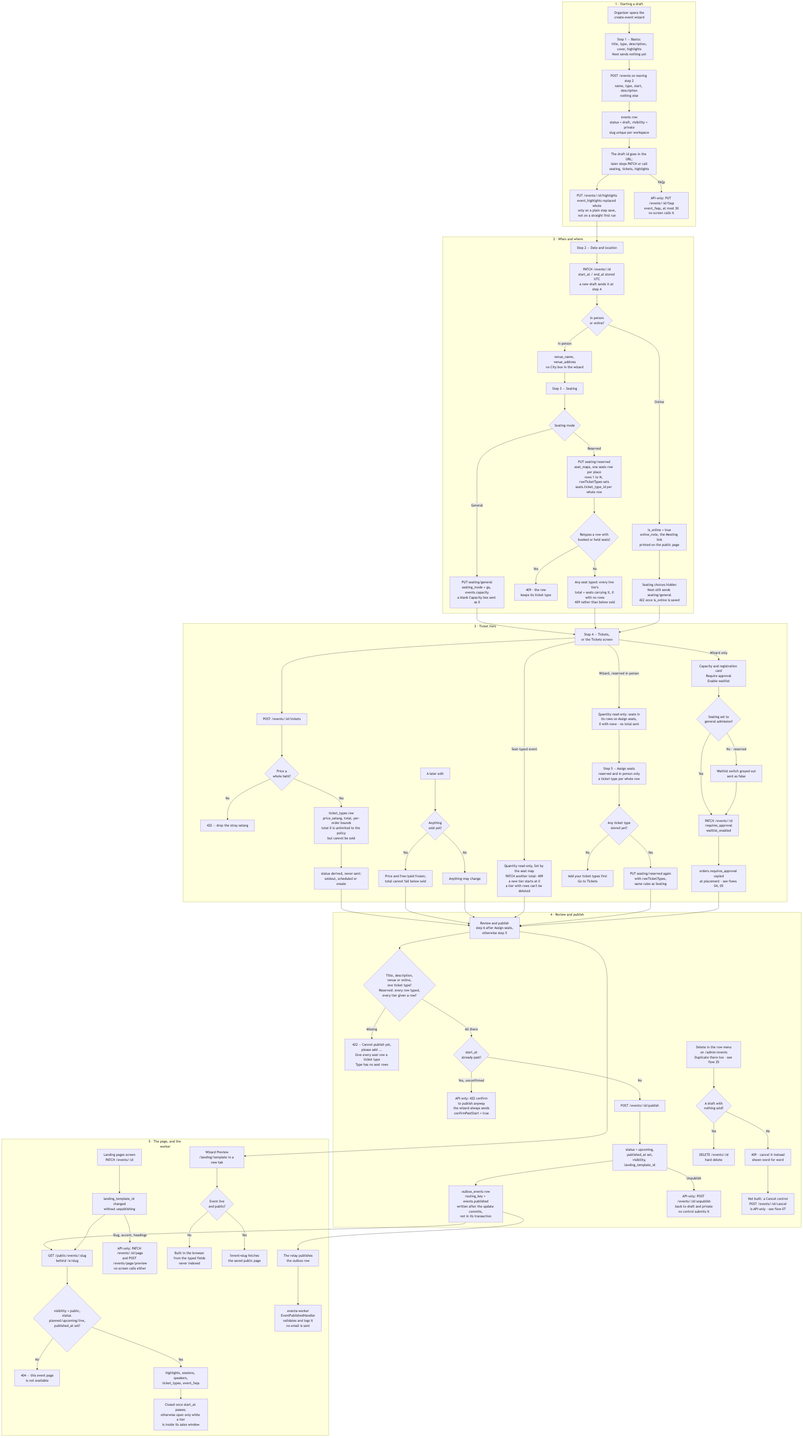
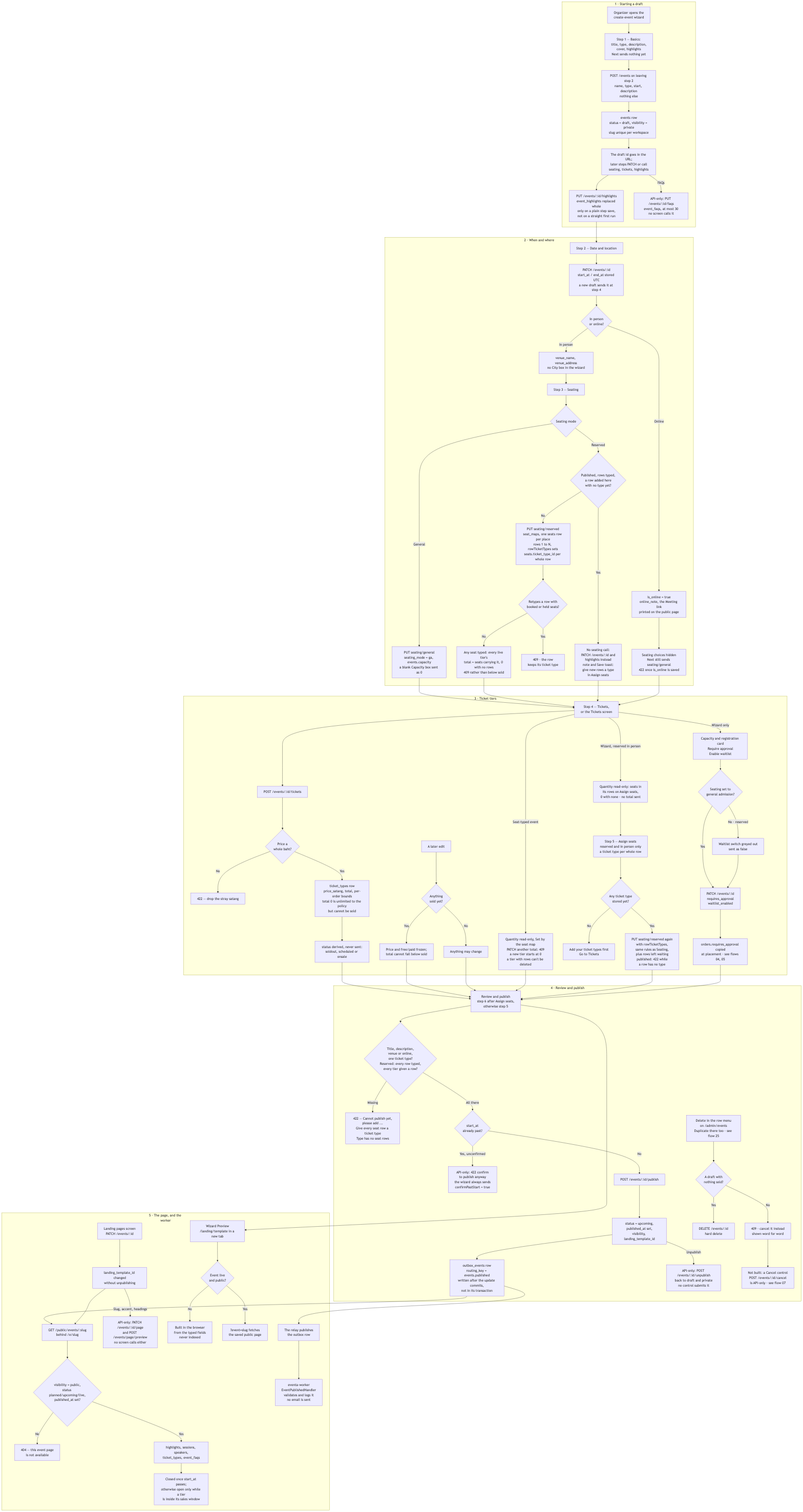
docs(flowcharts): draw Seating waiting for Assign seats on a published map (US-EVT-05)
Flowchart 13 said both wizard steps save the seat map. Once an event is
published with typed rows the API refuses a map with an untyped row (a
422, "Give row {n} a ticket type. Every row of a published event needs
one."), so while a row added on Seating has no type, Seating sends no
seating call: it saves the rest of the event as a plain step save (with
the highlights, which section 1 now counts), shows its note, and its
Save toasts the Assign seats message instead of "Changes saved.". The
map goes out with Assign seats' save. New decision OW and node OX after
Reserved; AS3 says it carries the waiting rows and the 422.

Image 13 re-rendered with Mermaid 11.4.1 (the old source reproduces the
committed PNG byte for byte, and the new one renders identically twice).
The flowcharts have no .tldr companions.

Changed region(s): [[0.0, 0.0, 1.0, 0.9915], [0.1875, 0.9295, 0.2812, 1.0]]

diff --git a/04-architecture/flowcharts/13-create-and-publish-an-event.md b/04-architecture/flowcharts/13-create-and-publish-an-event.md
@@ -6,8 +6,8 @@ How an organizer turns an idea into a public page an attendee can register on. I
 
 ![Create and publish an event](images/13-create-and-publish-an-event.png)
 
-1. **Starting a draft.** The wizard at `/admin/event-form` opens blank and makes no calls at all until something is saved — on the API this is not one submit but a create followed by a long run of patches. `POST /events` needs a start and the start is asked for on step 2, so Next on Basics sends nothing and step 2's Next stays disabled until a title and a start date are filled; leaving step 2 is the create. That first save posts to `/events` (permission `evCreate`) with only a name, a type from the `event_type` enum, a start instant and an optional description — nothing else the first two steps hold, so the venue, end, online flag and cover typed there are first written by a later `PATCH` (on a straight run, step 4's) — and inserts an `events` row with `status = 'draft'`, `bucket = 'active'`, `visibility = 'private'` and `published_at` still null. The slug is derived from the name (latin `a-z0-9` and hyphens, at most 80 characters), falls back to `event` when that leaves fewer than three characters (a Thai-only title, for instance), and is tried as `-2`, `-3`… until it is free, because `uq_events_org_slug` makes it unique per workspace rather than globally; `organizer_name` falls back to the workspace's own name and `created_by` records who did it. The description is rich text the organizer authors in Quill and an anonymous reader later loads, so it is sanitised on the way **in** and capped at 10,000 characters of markup. The new id goes straight into the URL — from then on a refresh or a closed tab cannot strand a draft nobody can find. The cover image is a separate two-step upload (`POST /events/cover/upload-url`, then `PUT` straight to storage, then `POST /events/cover`); it writes to no table, is staged per **organization** rather than per event because step 1 runs before a draft exists to key it to, and only the confirmed URL is saved, in `events.cover_image`. The Basics step's highlights are a `PUT /events/:id/highlights` that replaces `event_highlights` as a whole — at most 12 — so what the organizer sees is exactly what the page renders. That call goes out only with the wizard's plain step save — Next on Basics or Date & location once the draft exists, or the header's Save on those steps or on Review — never with the create, seating, tickets or publish calls; so on a straight first run through a new event the highlights typed on Basics are never sent, unless the organizer goes back and saves one of those steps. FAQs have the same shape on the API — `PUT /events/:id/faqs` (`evCreate`) replaces `event_faqs` whole, at most 30 — but that endpoint is **API-only: no screen calls it**. The wizard has no FAQ field and no other console screen authors FAQs, so `event_faqs` stays empty unless something calls the API directly, and every template simply leaves the FAQ section out when there are none.
-2. **When and where.** Step 2's fields reach `events` through `PATCH /events/:id` — on an existing draft when step 2 is left, on a new one only with step 4's save, because leaving step 2 was the create. `start_at` and `end_at` are `timestamptz` — stored UTC, typed and displayed in Asia/Bangkok, with `events.timezone` defaulting to `'Asia/Bangkok'`. An end before or equal to the start is refused. An in-person event fills `venue_name` and `venue_address` — the wizard has no City box and re-sends whatever `city` is already stored, blank for a new event; an online one sets `is_online = true` with an `online_note`, and the public page then never publishes a physical location even if one is stored. It does publish `online_note` itself: the wizard labels that box **Meeting link** with a hint that it is emailed after registration, yet `GET /public/events/:slug` returns it and every template prints it in place of "Join link sent after you register". Step 3 is the room. General admission is a headcount: `PUT /events/:eventId/seating/general` sets `seating_mode = 'ga'` and writes the number into `events.capacity`. Reserved seating is a grid: `PUT /events/:eventId/seating/reserved` writes one `seat_maps` row per event (`uq_seat_maps_event`) carrying `layout` as `{ rows, seatsPerRow }` and `total_seats`, plus one `seats` row per position with `status = 'available'` — the `seat_status` enum is `available`, `held`, `reserved`, `sold`, `blocked`. Rows are numbered, not lettered: `seats.row_label` is `"1"` to `"N"`, and the wizard's preview labels them the same way. The same request splits the map between the event's ticket types by **whole rows**: `rowTicketTypes` carries one entry per row (index 0 is row `"1"`), each a live tier of this event or `null`, and the save writes that tier into `seats.ticket_type_id` on every seat of the row. A tier from anywhere else is a 422 ("Row {n}'s ticket type isn't one of this event's ticket types."), and so is a list whose length is not the row count; leaving the list out keeps each surviving row's type and gives new rows none. It is one transaction, locking the seat map, then the event's live `ticket_types`, then the map's `seats`. A row that has any seat booked (a `seat_assignments` row with `released_at` null) or held (an `active`, unexpired `seat_holds` row) keeps its type: a save that would change it is a 409, "Row {n} has booked or held seats, so its ticket type can't change.", read through a port the registration side implements. Once any seat on the map carries a tier the event is **seat-typed**, and in the same transaction Ticketing — through a port that takes the transaction — sets every live tier's `total` to the number of seats carrying it, `0` for a tier with no rows, and re-derives its `status` as it does whenever `total` changes; it never writes a `total` below `sold`, refusing the whole save with a 409 instead ("{Type} has sold {sold} tickets, more than the {n} seats its rows now hold."). `GET …/seating`, and the save's own response, return `rows` (`rowLabel`, `ticketTypeId`, `seats`, sorted numerically) and `unassignedRows`. The wizard gives this a step of its own. On an in-person event with reserved seating — and only there — **Assign seats** comes after Tickets, so the rail reads Basics, Date & location, Seating, Tickets, Assign seats, Review & publish; general admission and online events keep the five steps without it. The list is worked out from the seating choice and the online flag, so switching back to general admission drops the step again and keeps the open step inside the shorter list. The Seating step keeps the layout — rows, seats per row and the total — with the preview, under which it says "After Tickets, give each row a ticket type in Assign seats." Assign seats draws the **Ticket types by row** list — Row 1 to Row N, each a select of the event's stored ticket types plus "No ticket type" — and colours the same preview by type, with a legend of each type's name and seat count and unassigned rows in a neutral colour. A row can point only at a tier the API has stored, so until the Tickets step has saved one, Assign seats says "Add your ticket types in the Tickets step first, then give each row one here." and offers a **Go to Tickets** button instead. Both steps save through the same `PUT …/seating/reserved`, carrying the map and the whole `rowTicketTypes` list: on a first run Seating's save lays out rows that have no type yet, and Assign seats' save is the one that types them and so sets the tiers' totals. A map laid out before rows carried types, with every seat's `ticket_type_id` null, is not seat-typed: its tiers keep their typed totals and checkout sells any of its seats under any tier, until a save gives its rows types. Switching a reserved event back to general admission drops the map. Either way an **online** event is refused outright with a 422 ("Online events have no seating — …"), and on an event that is no longer a draft a layout change that would remove a seat already `sold` is refused too. The wizard hides the seating choices for an online event, but its Next still sends `PUT …/seating/general`: on a first run that succeeds, because `is_online` has not been saved yet, and once it has, the refusal shows as the wizard's error banner while it moves on to Tickets. The wizard has no headcount box on this step either: the number it sends is the **Capacity** box on step 4's card, and a blank box is sent as `0`. So a first run, which leaves Seating before that box is reached, stores `events.capacity = 0` until step 4's `PATCH` carries a number; left blank there, the nought stays — that `PATCH` omits a blank capacity, and `UpdateEventDto.capacity` must be positive — and a reload shows `0`. The summary rail still renders `—` for a blank or zero capacity, because "as many as the tiers allow" and "nobody may come" are different facts, but the stored value says nought.
+1. **Starting a draft.** The wizard at `/admin/event-form` opens blank and makes no calls at all until something is saved — on the API this is not one submit but a create followed by a long run of patches. `POST /events` needs a start and the start is asked for on step 2, so Next on Basics sends nothing and step 2's Next stays disabled until a title and a start date are filled; leaving step 2 is the create. That first save posts to `/events` (permission `evCreate`) with only a name, a type from the `event_type` enum, a start instant and an optional description — nothing else the first two steps hold, so the venue, end, online flag and cover typed there are first written by a later `PATCH` (on a straight run, step 4's) — and inserts an `events` row with `status = 'draft'`, `bucket = 'active'`, `visibility = 'private'` and `published_at` still null. The slug is derived from the name (latin `a-z0-9` and hyphens, at most 80 characters), falls back to `event` when that leaves fewer than three characters (a Thai-only title, for instance), and is tried as `-2`, `-3`… until it is free, because `uq_events_org_slug` makes it unique per workspace rather than globally; `organizer_name` falls back to the workspace's own name and `created_by` records who did it. The description is rich text the organizer authors in Quill and an anonymous reader later loads, so it is sanitised on the way **in** and capped at 10,000 characters of markup. The new id goes straight into the URL — from then on a refresh or a closed tab cannot strand a draft nobody can find. The cover image is a separate two-step upload (`POST /events/cover/upload-url`, then `PUT` straight to storage, then `POST /events/cover`); it writes to no table, is staged per **organization** rather than per event because step 1 runs before a draft exists to key it to, and only the confirmed URL is saved, in `events.cover_image`. The Basics step's highlights are a `PUT /events/:id/highlights` that replaces `event_highlights` as a whole — at most 12 — so what the organizer sees is exactly what the page renders. That call goes out only with the wizard's plain step save — Next on Basics or Date & location once the draft exists, the header's Save on those steps or on Review, or Seating's save while its map waits for Assign seats (step 2) — never with the create, seating, tickets or publish calls; so on a straight first run through a new event the highlights typed on Basics are never sent, unless the organizer goes back and saves one of those steps. FAQs have the same shape on the API — `PUT /events/:id/faqs` (`evCreate`) replaces `event_faqs` whole, at most 30 — but that endpoint is **API-only: no screen calls it**. The wizard has no FAQ field and no other console screen authors FAQs, so `event_faqs` stays empty unless something calls the API directly, and every template simply leaves the FAQ section out when there are none.
+2. **When and where.** Step 2's fields reach `events` through `PATCH /events/:id` — on an existing draft when step 2 is left, on a new one only with step 4's save, because leaving step 2 was the create. `start_at` and `end_at` are `timestamptz` — stored UTC, typed and displayed in Asia/Bangkok, with `events.timezone` defaulting to `'Asia/Bangkok'`. An end before or equal to the start is refused. An in-person event fills `venue_name` and `venue_address` — the wizard has no City box and re-sends whatever `city` is already stored, blank for a new event; an online one sets `is_online = true` with an `online_note`, and the public page then never publishes a physical location even if one is stored. It does publish `online_note` itself: the wizard labels that box **Meeting link** with a hint that it is emailed after registration, yet `GET /public/events/:slug` returns it and every template prints it in place of "Join link sent after you register". Step 3 is the room. General admission is a headcount: `PUT /events/:eventId/seating/general` sets `seating_mode = 'ga'` and writes the number into `events.capacity`. Reserved seating is a grid: `PUT /events/:eventId/seating/reserved` writes one `seat_maps` row per event (`uq_seat_maps_event`) carrying `layout` as `{ rows, seatsPerRow }` and `total_seats`, plus one `seats` row per position with `status = 'available'` — the `seat_status` enum is `available`, `held`, `reserved`, `sold`, `blocked`. Rows are numbered, not lettered: `seats.row_label` is `"1"` to `"N"`, and the wizard's preview labels them the same way. The same request splits the map between the event's ticket types by **whole rows**: `rowTicketTypes` carries one entry per row (index 0 is row `"1"`), each a live tier of this event or `null`, and the save writes that tier into `seats.ticket_type_id` on every seat of the row. A tier from anywhere else is a 422 ("Row {n}'s ticket type isn't one of this event's ticket types."), and so is a list whose length is not the row count; leaving the list out keeps each surviving row's type and gives new rows none. It is one transaction, locking the seat map, then the event's live `ticket_types`, then the map's `seats`. A row that has any seat booked (a `seat_assignments` row with `released_at` null) or held (an `active`, unexpired `seat_holds` row) keeps its type: a save that would change it is a 409, "Row {n} has booked or held seats, so its ticket type can't change.", read through a port the registration side implements. Once any seat on the map carries a tier the event is **seat-typed**, and in the same transaction Ticketing — through a port that takes the transaction — sets every live tier's `total` to the number of seats carrying it, `0` for a tier with no rows, and re-derives its `status` as it does whenever `total` changes; it never writes a `total` below `sold`, refusing the whole save with a 409 instead ("{Type} has sold {sold} tickets, more than the {n} seats its rows now hold."). `GET …/seating`, and the save's own response, return `rows` (`rowLabel`, `ticketTypeId`, `seats`, sorted numerically) and `unassignedRows`. The wizard gives this a step of its own. On an in-person event with reserved seating — and only there — **Assign seats** comes after Tickets, so the rail reads Basics, Date & location, Seating, Tickets, Assign seats, Review & publish; general admission and online events keep the five steps without it. The list is worked out from the seating choice and the online flag, so switching back to general admission drops the step again and keeps the open step inside the shorter list. The Seating step keeps the layout — rows, seats per row and the total — with the preview, under which it says "After Tickets, give each row a ticket type in Assign seats." Assign seats draws the **Ticket types by row** list — Row 1 to Row N, each a select of the event's stored ticket types plus "No ticket type" — and colours the same preview by type, with a legend of each type's name and seat count and unassigned rows in a neutral colour. A row can point only at a tier the API has stored, so until the Tickets step has saved one, Assign seats says "Add your ticket types in the Tickets step first, then give each row one here." and offers a **Go to Tickets** button instead. Both steps save through the same `PUT …/seating/reserved`, carrying the map and the whole `rowTicketTypes` list: on a first run Seating's save lays out rows that have no type yet, and Assign seats' save is the one that types them and so sets the tiers' totals. Seating does **not** always save the map. Once an event is published and its rows have types, the API refuses a map with any row left untyped — a 422, "Give row {n} a ticket type. Every row of a published event needs one." — and a row added on Seating has no type until Assign seats. So while the map has such a row, Seating's save sends no seating call: it saves the rest of the event as a plain step save (`PATCH /events/:id`, with the highlights), the step shows "New rows need a ticket type. The seat map is saved when you give them one in Assign seats." under its hint, and its header Save announces "Saved. Give the new rows a ticket type in Assign seats to save the seat map." instead of "Changes saved."; Next moves on silently, as on every step. The map — the new rows and any other layout change made with them — goes out with Assign seats' save, which gets the same 422 if a row is still on "No ticket type". A draft, a map whose rows all have types and a map none of whose rows has a type save from Seating as before. A map laid out before rows carried types, with every seat's `ticket_type_id` null, is not seat-typed: its tiers keep their typed totals and checkout sells any of its seats under any tier, until a save gives its rows types. Switching a reserved event back to general admission drops the map. Either way an **online** event is refused outright with a 422 ("Online events have no seating — …"), and on an event that is no longer a draft a layout change that would remove a seat already `sold` is refused too. The wizard hides the seating choices for an online event, but its Next still sends `PUT …/seating/general`: on a first run that succeeds, because `is_online` has not been saved yet, and once it has, the refusal shows as the wizard's error banner while it moves on to Tickets. The wizard has no headcount box on this step either: the number it sends is the **Capacity** box on step 4's card, and a blank box is sent as `0`. So a first run, which leaves Seating before that box is reached, stores `events.capacity = 0` until step 4's `PATCH` carries a number; left blank there, the nought stays — that `PATCH` omits a blank capacity, and `UpdateEventDto.capacity` must be positive — and a reload shows `0`. The summary rail still renders `—` for a blank or zero capacity, because "as many as the tiers allow" and "nobody may come" are different facts, but the stored value says nought.
 3. **Ticket tiers.** Step 4, and the standalone Tickets screen at `/admin/tickets`, both write `ticket_types` through `POST /events/:eventId/tickets` and `PATCH /events/:eventId/tickets/:ticketId`. `price_satang` is integer satang and VAT-inclusive; prices are set in whole baht, so a stray satang is refused, and the browser converts what was typed with `Math.round(baht × 100)` rather than sending a float. A free tier sets `is_free` and is held to a zero price by `ck_ticket_types_free_price`. `total` is the allocation, and the ticketing policy reads `0` as unlimited — never derived `soldout`, no per-order ceiling — but nothing downstream agrees: `ck_ticket_types_sold` keeps `sold` between 0 and `total`, the seat-hold engine counts free places as `total - sold - held`, and the public page counts `total - sold` remaining, so a tier left at `0` — which is what a blank Quantity box in the wizard creates on a general-admission or online event — is shown sold out and cannot actually be sold. `min_per_order` and `max_per_order` sit inside the platform's eight-seat booking cap and, where the organizer types the allocation, inside the allocation itself. On a seat-typed event (below) the seat map sets the allocation, so the per-order limit answers to the eight-seat cap alone: a tier whose rows hold four seats can keep a limit of 8, since otherwise every edit to it would be refused over a number the organizer cannot change here. What the tier is **not** given is its own availability: `status` is always derived server-side by the ticketing policy — `soldout` when the allocation is exhausted, `scheduled` while `sales_start_at` is still ahead, otherwise `onsale` — so the only value a human owns is `paused`, which survives until Resume and is refused a resume once `sales_end_at` has passed. Two rules protect sales already made: once `sold > 0` the price and the paid/free setting are frozen (a new tier is the answer), and `total` can never be set below `sold`. Raising `total` is the one edit with a side effect — the new places are offered to anyone waiting (see [Waitlist](04-waitlist.md)), and a failure there is reported as the offers being cut short rather than undoing the organizer's capacity change. Deleting a tier that never sold erases the row; one with sales is soft-deleted via `deleted_at`, so it leaves the list and stops selling while every issued ticket still resolves to it. The last remaining tier cannot go, and neither can one somebody is checking out with — an active `seat_holds` row refuses the delete with a sentence saying to pause it and try again. On a **seat-typed** event (step 2) the quantity belongs to the seat map, not the organizer. The ticket list and detail responses carry `quantityFromSeats: true` (`false` on every other event), so the Tickets screen shows the seat count read-only, marked "Set by the seat map"; a `PATCH` with any other `total` is a 409 ("This event's ticket quantities come from its seat map. Give rows to a ticket type instead."), while sending the same number, or changing any other field, goes through. The wizard goes further: on **any** in-person reserved event, seat-typed yet or not, its Tickets step shows every Quantity box read-only, never typed. Each holds, under the same "Set by the seat map", the seats its tier's rows hold, counted from the row picks on Assign seats as they stand — rows of that type times seats per row, so it moves the moment a row changes hands, and `0` for a tier not yet saved or with no rows — and a note under the list says "Each type's quantity is the seats in its rows — give rows a type in the next step, Assign seats." The step's save leaves `total` out of every tier's request: a new tier is created at `0`, and an existing one keeps what is stored until Assign seats types the map and the seat counts replace it. Meanwhile, on a map laid out before rows carried types, whose totals are still the organizer's, the stored number can be changed only outside the wizard, on the Tickets screen. A tier created on a seat-typed event starts at `total = 0` until Assign seats gives it rows, whatever `total` the request sent; and a tier that still owns rows can be neither deleted nor retired — a 409, "{Type} still has seat rows. Give them to another ticket type first." The same wizard step also carries the event's two registration rules, on a **Capacity & registration** card under the tier table — the only place in the console that sets them; the standalone Tickets screen does not. Saving the step sends both in the `PATCH /events/:id` (`evCreate`) that goes out before any tier is written, into `events.requires_approval` and `events.waitlist_enabled`, each `false` until switched on. **Require approval** holds every registration placed from then on for the organizer's decision (see [Approval](05-approval.md)). It is copied onto each `orders` row as `orders.requires_approval` at placement, so flipping the switch later never changes the deal a buyer was shown; and while it is on, a raised `total` no longer offers its new places to the line by itself — the organizer offers them by hand, because handing out a place on such an event is itself the decision. **Enable waitlist** only means something on general admission. When step 3 chose reserved seating the switch is greyed out, with a hint that a freed seat cannot be offered without somebody choosing it, and the wizard sends `false` whatever it was left at. The API does not refuse the combination at write time — `PATCH /events/:id` accepts `waitlistEnabled = true` on a reserved event — but the rule holds where it matters: checkout refuses to join a reserved event's line ("The waitlist is for general-admission tickets; this event seats people by seat."), and a raised allocation never offers places to one (see [Waitlist](04-waitlist.md)).
 4. **Review and publish.** `POST /events/:id/publish` needs the stronger `evPublish` permission, and refuses a draft that is not ready. The readiness gate asks for four things — a title, a description, a venue or an online link (checked as a `venue_name` or `is_online = true`), and at least one ticket type — and answers a 422 naming the ones still missing ("Cannot publish yet — please add …"). A reserved event must also have a ticket type on every seat row and at least one row for every live ticket type, and those gaps join the same 422 as sentences of their own, after any "Cannot publish yet — please add …": "Give every seat row a ticket type before publishing." and "{Type} has no seat rows. Give it a row or remove it." (the error's details list `seating` beside the other requirement keys). A draft whose map was laid out before rows carried types counts as having untyped rows — that one sentence, not one per ticket type as well — so it cannot publish until they get types; an event that is already published is never re-checked. The wizard's checklist applies the same rules locally, so the button and the server agree before it is pressed, and counts only tiers the API has actually stored; on a reserved event it adds "Every seat row has a ticket type" and keeps Publish disabled while a row has none. A ticket type with no rows is not checked locally: that refusal reaches the organizer as the API's sentence in the page's error banner. A start date already in the past is refused with a 422 unless the request carries `confirmPastStart` — but the wizard always sends `confirmPastStart: true`, without asking, so from the console a past start publishes with no prompt and that refusal is **API-only**. A `version` that no longer matches is a 409 asking for a reload, which is what stops two people publishing different drafts of the same event. On success the row moves to `status = 'upcoming'` with `bucket = 'active'` and `published_at` stamped, and the request's optional `visibility` and `landing_template_id` are applied in the same write. Worth knowing: `planned` and `live` exist in the `event_status` enum and are accepted as live by the public-page, discover and checkout queries, but nothing ever writes them — publishing always lands on `upcoming`. Once that write has committed, the service enqueues an `outbox_events` row with `aggregate_type = 'event'` and `routing_key = 'events.published'` — through `OutboxPort.enqueue` on its own connection, not `enqueueIn` inside the update's transaction, so the state change and the message about it do **not** commit together: a failure between the two leaves a published event with no `events.published` row, and the organizer an error for a publish that stood. Unpublishing, `POST /events/:id/unpublish` (`evPublish`), is the exact reverse and loses nothing: `status` back to `draft`, `visibility` back to `private`, `published_at` cleared, every tier, seat and highlight preserved — but it is **API-only: no screen calls it**; the wizard's route action keeps an `unpublish` branch that no control submits. Deleting and duplicating happen in the row menu on `/admin/events`, not here (see [Categories, duplicating and deleting events](25-manage-events.md) steps 5 and 6). `DELETE /events/:id` (`evPublish`) hard-deletes only a draft with nothing sold; a published event, or a draft with registrations, is refused with a 409 whose sentence tells the organizer to cancel it instead — but **the console has no Cancel control**. The row menu shows that sentence word for word and offers nothing more, and `POST /events/:id/cancel` is **API-only: no screen calls it** (see [Refund and cancellation](07-refund-and-cancellation.md) step 1).
 5. **The page, and the worker.** The public page lives at `/e/<slug>` and is served by `GET /public/events/:slug`, which returns a row only when `visibility = 'public'`, `status` is one of `planned`/`upcoming`/`live`, `published_at` is not null and `deleted_at` is null — anything else is a plain "This event page isn't available." `unlisted` is in the `visibility` enum but is not treated as reachable by that query, so today only `public` has a page. The payload is assembled read-only from `event_highlights`, `sessions`, `speakers`, `ticket_types` and `event_faqs`, with the accent colour falling back to `#2563EB` when none is stored or the stored one is not `#rrggbb`, and the template falling back to `aurora`. Registration is reported closed once `start_at` has passed and "not open yet" while every tier sits outside its sales window — a tier whose stored `status` still reads `onsale` is refused at checkout outside its sales window, because registration's own eligibility rules check the window rather than trusting that badge, which is deliberate (see [Checkout and payment](02-checkout-and-payment.md)); an event with `requires_approval` set confirms nothing at checkout either (see [Approval](05-approval.md)). The **Landing pages** screen offers the four designs — `aurora` (Classic), `noir` (Spotlight), `minimal` (Minimal), `atlas` (Vibrant), seeded into the global `landing_templates` lookup — and "Use template" is a plain `PATCH /events/:id` setting `landing_template_id` on the event chosen in the screen's switcher (with no event yet it is only a link to the wizard), deliberately so: it used to be settable only while publishing, which meant wanting a new look required taking a live event down. Everything else about the page is **API-only: no screen calls it**. `PATCH /events/:id/page` (`evPublish`) can move the slug (409 when it is taken in the workspace), the accent colour and the agenda/speakers headings, and `POST /events/page/preview` (`evCreate`) renders a page from values that have never been saved — it writes nothing and is flagged `noIndex` so a preview can never leak into search. No console screen lets an organizer change the address, the accent colour or those headings, and the wizard's own update leaves `accentColor` out, so a value set through the API survives a save. The wizard's **Preview** button — in its header on every step, and again on the review step — does not use that endpoint either. On an event that is not yet served publicly it opens `/landing/<template>` in a new tab with the typed title, venue, online flag and highlights packed into the query string, and the page is built in the browser from those alone, with no agenda, speakers, tickets or FAQs: no API call, never indexed. Once the event is live and `public` it opens `/landing/<template>?event=<slug>` instead, which fetches the real public page and therefore shows what is saved, not what is on screen. Finally, the asynchronous part, which is the piece readers most often get wrong: **publishing sends no email.** The API only wrote the `outbox_events` row; the relay publishes it to RabbitMQ, and eventa-worker's `EventPublishedHandler` consumes `events.published`, validates the payload and writes it to the structured log, nothing more — delivering the team's "Event published" notification is deferred, because the message carries a slug, a name and who published it, and no recipient addresses at all.
@@ -34,7 +34,9 @@ flowchart TD
     J --> L["Step 3 — Seating"]
     L --> M{"Seating mode"}
     M -- "General" --> N["PUT seating/general<br/>seating_mode = ga, events.capacity<br/>a blank Capacity box sent as 0"]
-    M -- "Reserved" --> O["PUT seating/reserved<br/>seat_maps, one seats row per place<br/>rows 1 to N, rowTicketTypes sets<br/>seats.ticket_type_id per whole row"]
+    M -- "Reserved" --> OW{"Published, rows typed,<br/>a row added here<br/>with no type yet?"}
+    OW -- "No" --> O["PUT seating/reserved<br/>seat_maps, one seats row per place<br/>rows 1 to N, rowTicketTypes sets<br/>seats.ticket_type_id per whole row"]
+    OW -- "Yes" --> OX["No seating call:<br/>PATCH /events/:id and<br/>highlights instead<br/>note and Save toast:<br/>give new rows a type<br/>in Assign seats"]
     O --> O1{"Retypes a row with<br/>booked or held seats?"}
     O1 -- "Yes" --> O2["409 · the row<br/>keeps its ticket type"]
     O1 -- "No" --> O3["Any seat typed: every live tier's<br/>total = seats carrying it, 0 with no rows<br/>409 rather than below sold"]
@@ -55,7 +57,7 @@ flowchart TD
     QW --> AS["Step 5 — Assign seats<br/>reserved and in person only<br/>a ticket type per whole row"]
     AS --> AS1{"Any ticket type<br/>stored yet?"}
     AS1 -- "No" --> AS2["Add your ticket types first<br/>Go to Tickets"]
-    AS1 -- "Yes" --> AS3["PUT seating/reserved again<br/>with rowTicketTypes,<br/>same rules as Seating"]
+    AS1 -- "Yes" --> AS3["PUT seating/reserved again<br/>with rowTicketTypes,<br/>same rules as Seating,<br/>plus rows left waiting<br/>published: 422 while<br/>a row has no type"]
     Q -- "Wizard only" --> SW1["Capacity and registration card<br/>Require approval<br/>Enable waitlist"]
     SW1 --> SW2{"Seating set to<br/>general admission?"}
     SW2 -- "No · reserved" --> SW3["Waitlist switch greyed out<br/>sent as false"]
@@ -95,6 +97,7 @@ flowchart TD
   F --> G
   N --> Q
   O3 --> Q
+  OX --> Q
   P --> Q
   V --> AA
   Y --> AA
